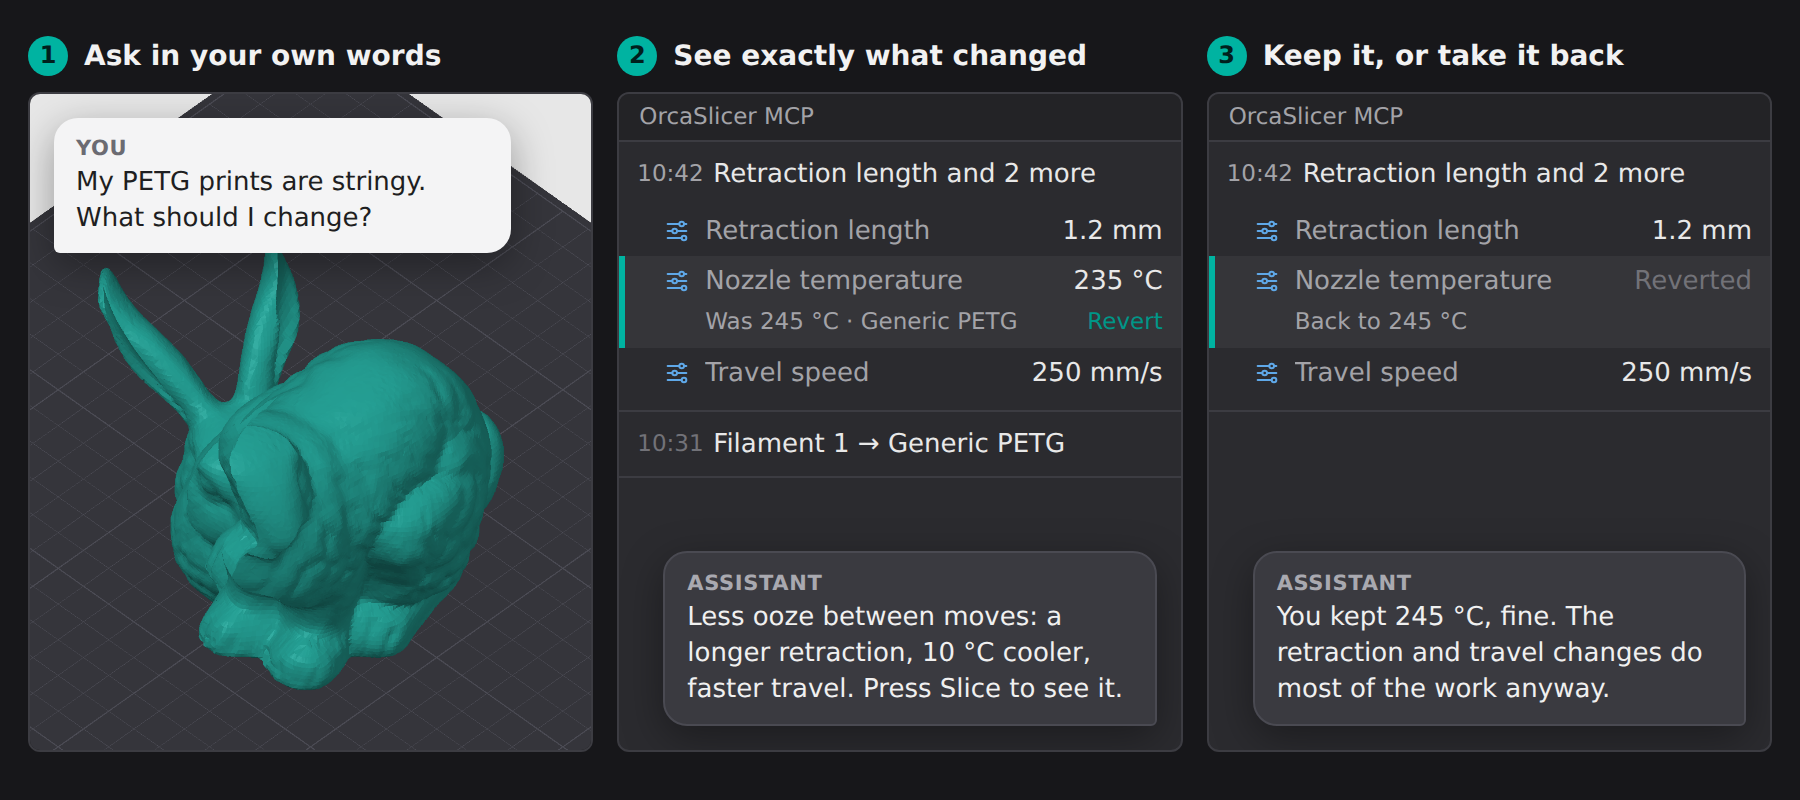
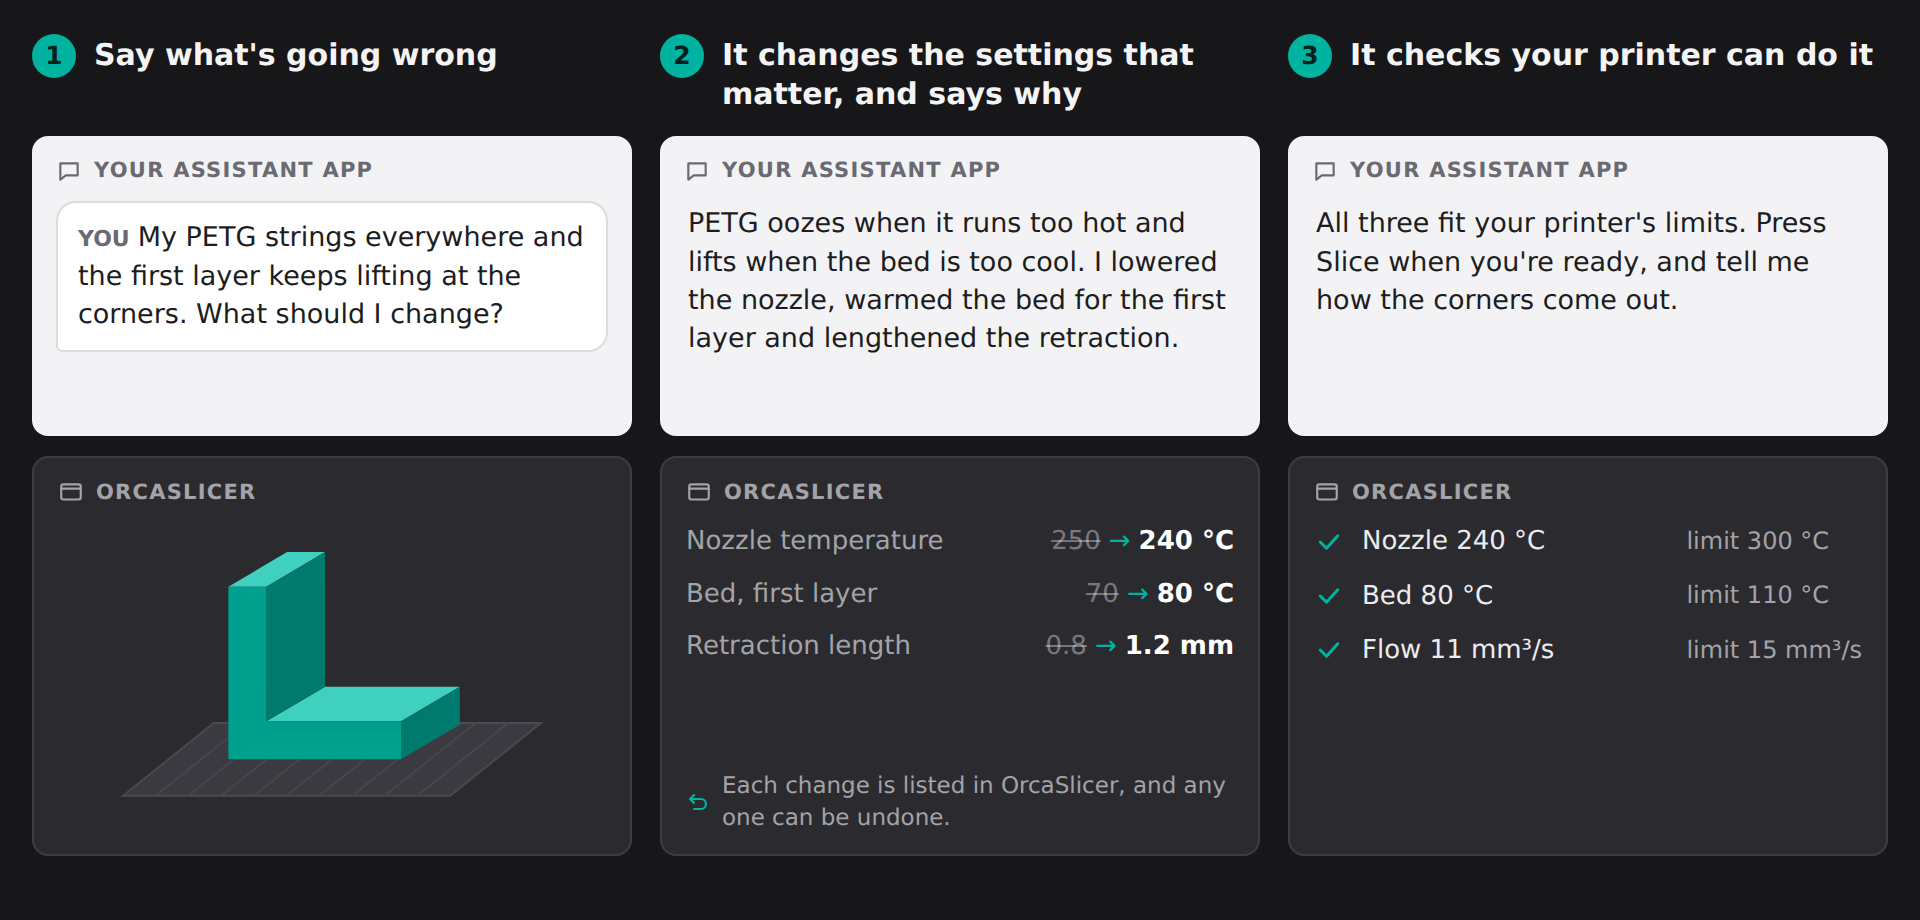
doc: second-pass story strip, goal-style examples, plugin from OrcaCloud or the release, no build-or-plugin advice

diff --git a/README.md b/README.md
@@ -5,7 +5,7 @@
   </picture>
 </p>
 
-<h3 align="center">Ask OrcaSlicer for what you want. See what changed and what it costs. Keep it, or take it back.</h3>
+<h3 align="center">Tell your AI assistant what the print needs. It finds the OrcaSlicer settings that matter, says why, and shows what they cost before you print.</h3>
 
 <p align="center">
   <a href="https://pypi.org/project/orcaslicer-mcp/"><img alt="PyPI" src="https://img.shields.io/pypi/v/orcaslicer-mcp?color=009789"></a>
@@ -13,9 +13,9 @@
   <a href="https://lobehub.com/mcp/maxellis-orcaslicer-mcp"><img alt="MCP Badge" src="https://lobehub.com/badge/mcp/maxellis-orcaslicer-mcp"></a>
 </p>
 
-<p align="center"><img src="https://raw.githubusercontent.com/MaxEllis/orcaslicer-mcp/main/docs/images/story.png" alt="Three steps. 1: you ask 'This takes 2 hours. Can it print faster?' over the sliced model. 2: the panel in OrcaSlicer lists the changes (layer height 0.28 mm, sparse infill 15%, inner wall speed 200 mm/s) and the new slice, 1h 22m, was 2h 06m. 3: you revert the layer height, and the assistant keeps your choice and re-slices: 1h 41m."></p>
+<p align="center"><img src="https://raw.githubusercontent.com/MaxEllis/orcaslicer-mcp/main/docs/images/story.png" alt="Three steps, each showing your assistant app above and OrcaSlicer below. 1: in the assistant app you write that the brackets will hold up a shelf and must not snap, without doubling the print time; OrcaSlicer shows the bracket, estimated 1h 40m. 2: the assistant explains that a bracket's strength is mostly in its walls; in OrcaSlicer wall loops go from 2 to 4, sparse infill from 15% to 25% gyroid, nozzle temperature from 210 to 220 °C, each change listed and undoable. 3: the assistant compares the two slices, 1h 40m and 18 g before, 2h 05m and 23 g stronger: 25 minutes more, not double."></p>
 
-OrcaSlicer MCP lets an AI assistant work your OrcaSlicer: change settings, switch presets, load and slice models, and explain the result. It works in the window you already use, and a panel beside the 3D view lists every change with a way to undo it.
+You talk to the assistant in your usual AI app, in plain words. It makes the changes in OrcaSlicer, in the window you already use: settings, presets, models, slicing. A panel beside the 3D view lists every change it makes, with a way to undo each one.
 
 ## Two ways to run it
 
@@ -24,15 +24,15 @@ OrcaSlicer MCP lets an AI assistant work your OrcaSlicer: change settings, switc
 | **What it is** | OrcaSlicer 2.5 with the assistant's way in built in | An add-on for the OrcaSlicer you already have |
 | **The assistant can** | Change settings and presets, load and arrange models, slice, render the plate, manage plates and projects | Read your setup, change settings, switch presets |
 | **The panel** | Every change with an undo, plus restore points | Setting and preset changes with an undo |
-| **Get it** | [Download](https://github.com/MaxEllis/OrcaSlicer/releases/latest) | [OrcaCloud](https://cloud.orcaslicer.com/p/EXAMPLE) |
+| **Get it** | [Download](https://github.com/MaxEllis/OrcaSlicer/releases/latest) | [OrcaCloud](https://cloud.orcaslicer.com/p/EXAMPLE), or the `.py` file on this repo's [latest release](https://github.com/MaxEllis/orcaslicer-mcp/releases/latest) |
 
-Not sure? Start with the plugin, and move to the build when you want the assistant to slice. Either way you also need this package, `orcaslicer-mcp`, which connects your assistant app to OrcaSlicer.
+Either way you also need this package, `orcaslicer-mcp`, which connects your assistant app to OrcaSlicer.
 
 ## Get started
 
 **1. Turn on the way in.**
 - **Build:** open **Preferences → Remote API**, tick **Enable Remote API** and copy the token.
-- **Plugin:** subscribe on OrcaCloud, then in OrcaSlicer's **File → Plugins** install it, tick **Activate** and allow the two permissions it asks for. Copy the token from its **Config** tab.
+- **Plugin:** subscribe on OrcaCloud and install it from OrcaSlicer's **File → Plugins**, or there choose **Install local plugin** (the arrow beside **Install plugin**) and pick the downloaded file. Tick **Activate** and allow the two permissions it asks for, then copy the token from its **Config** tab. Use one install or the other: each keeps its own token.
 
 **2. Add orcaslicer-mcp to your assistant app.** Install [uv](https://docs.astral.sh/uv/getting-started/installation/), then add this to the app's MCP settings:
 
@@ -54,14 +54,16 @@ In Claude Desktop, install `orcaslicer-mcp-<version>.mcpb` from the [latest rele
 
 ## What you can ask
 
-- *"Why does this take six hours?"* It splits the time by feature: walls, infill, supports.
-- *"Try 0.2, 0.28 and 0.32 mm layers and compare."* It slices each one and lays time and filament side by side.
-- *"Will this profile work on my printer?"* It checks speeds, temperatures and acceleration against the printer's limits.
-- *"What does Wall generator do?"* It answers from OrcaSlicer's own descriptions of its settings.
-- *"Put each part on its own plate and slice them."*
-- *"Is the print still heating?"* It reads a Klipper or OctoPrint printer, without ever controlling it.
+Goals, in your own words, the way you'd ask a friend who knows OrcaSlicer:
 
-The plugin answers the setting and preset questions. [All 66 tools](docs/tools.md) are listed with examples.
+- *"This lid has to press onto a 40 mm jar. What do I change so it fits first time?"*
+- *"These brackets will hold up a shelf. Make them strong enough without doubling the print time."*
+- *"It's going on a car dashboard. Will PLA survive, and what should I change if I use PETG?"*
+- *"The top of this box looks rough. How do I get it smooth?"*
+- *"Why does this take six hours, and what can I do about it?"*
+- *"Is my print still heating?"* It reads a Klipper or OctoPrint printer, without ever controlling it.
+
+The plugin handles the questions answered by settings and presets. [All 66 tools](docs/tools.md) are listed with examples.
 
 ## You stay in charge
 
